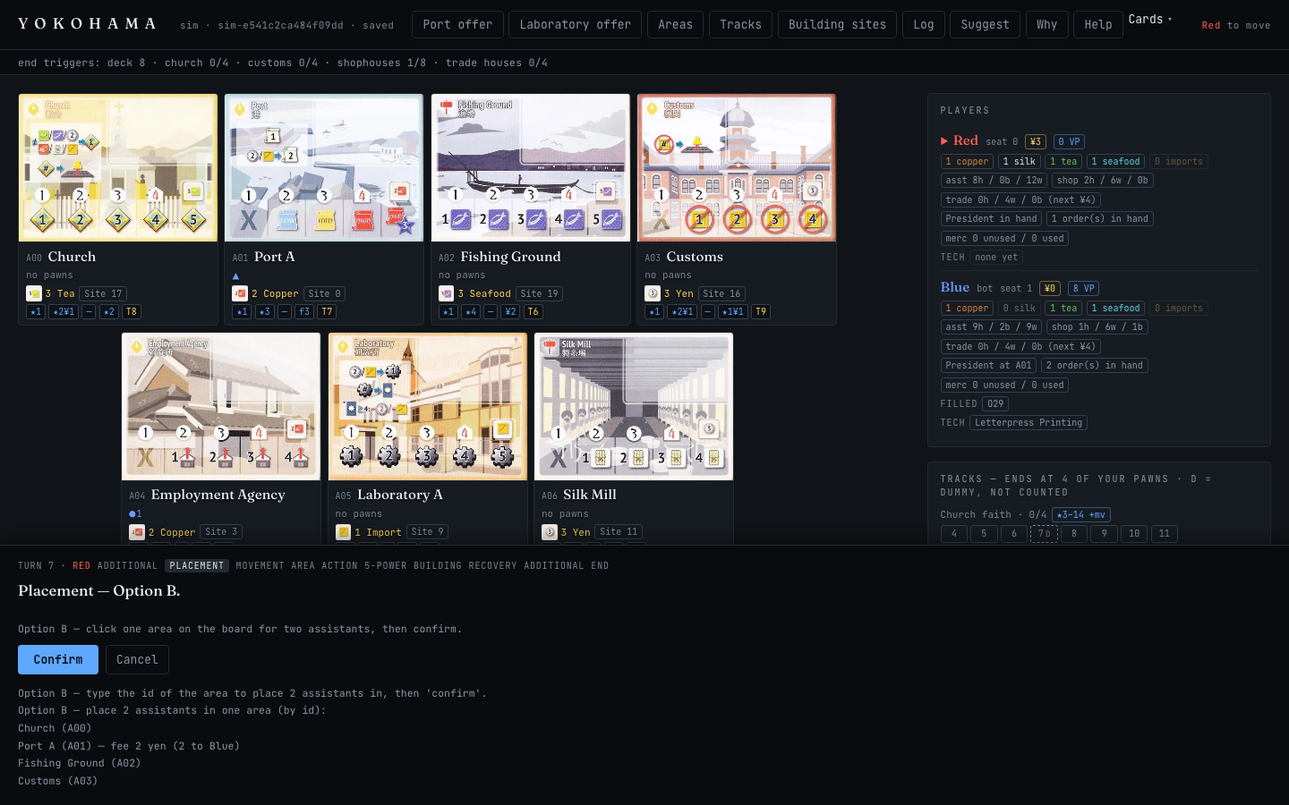
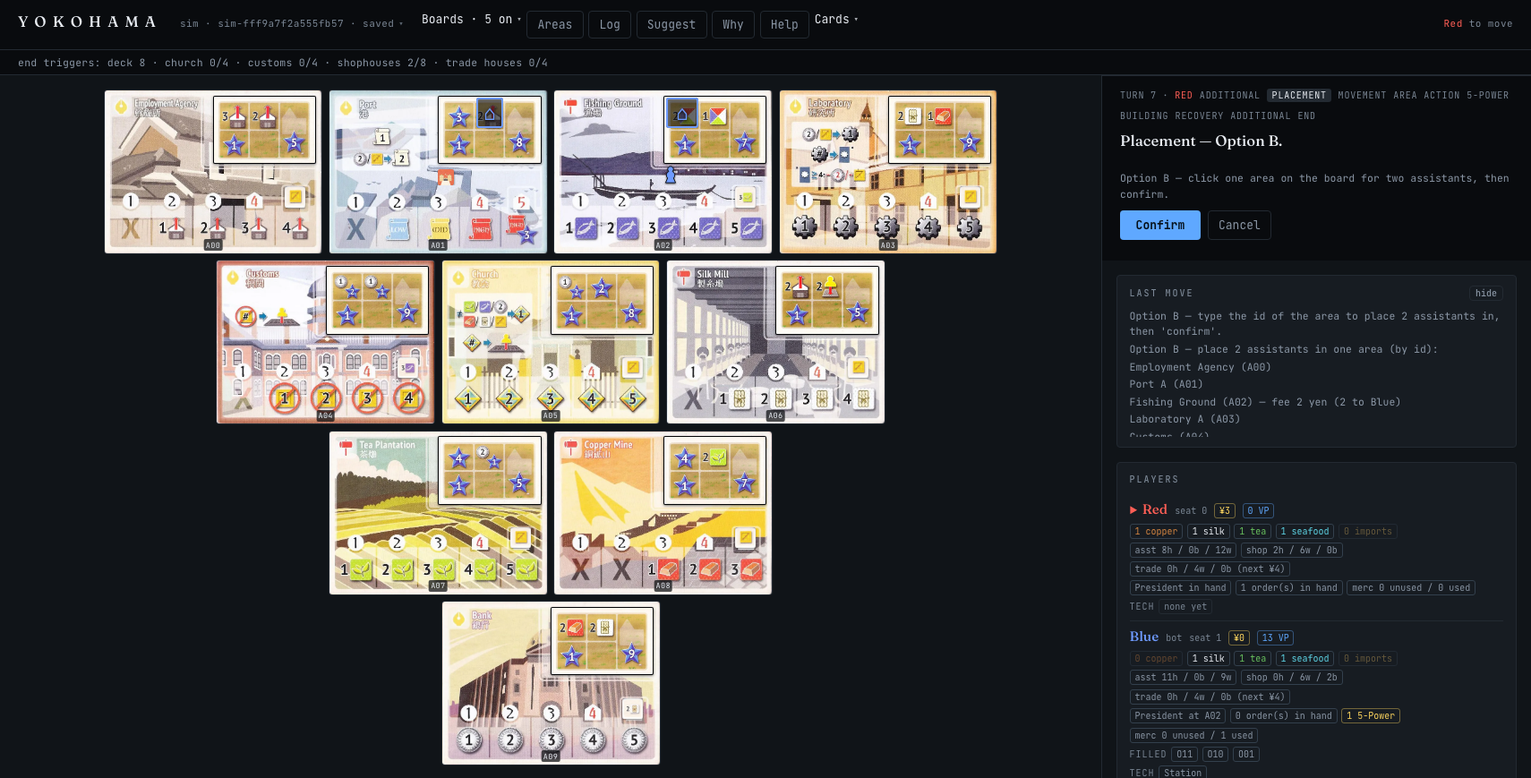
docs(web): W7/W8 — the help says table and side column, and its pictures show them
The in-app help still described M3.5's screen: a board on the left, a
dashboard rail on the right, an answer deck pinned along the bottom, and a
row of banner buttons opening the port, the laboratory, the tracks and the
building sites as read-only drawers. Every one of those became something
else in M5 (ruling R-T11c carried the last of it forward), so the panel a
new player opens to learn the screen was describing a screen that is not
there.

- `Help.tsx` — the three parts are now the TABLE (the fitted pyramid, each
  tile the printed art with its site card, its pieces and its 5-Power token,
  and under it whichever boards are switched on), the SIDE COLUMN, and the
  ANSWER BAR pinned at its top, with a sentence for the sub-1201 stack that
  ruling R8 left unchanged. "Looking things up" describes `Boards` as the ONE
  disclosure it is (ruling R-T14a) rather than five buttons. The replay
  section names the table and says which sections collapse while you are in
  the past — the port, the laboratory AND the building sites, which is
  `TableSections`' own `FETCHED` list, not the two the brief named.
- Ruling R-T14c, the corrections the brief did not ask for: the answer bar is
  called that in "Taking a turn" too; a tile no longer "is not pressable"
  (every tile takes focus for the popover, so the true claim is that none
  APPLIES a move); the `Cards` menu carries a fifth item; a panel is modal,
  so the game does not merely wait under it; and "Saving, and coming back"
[…]

diff --git a/web/src/Help.tsx b/web/src/Help.tsx
@@ -42,52 +42,64 @@ export function Help() {
 
       <h3>The three parts of the screen</h3>
       <p>
-        The <strong>board</strong> fills the left: one tile per area, laid out as the staggered
-        pyramid the real board makes, with each tile carrying its assistants, any president, and
-        the site or token sitting on it. The <strong>rail</strong> down the right is the
-        dashboard &mdash; every seat&rsquo;s goods, money and power, the Church and Customs
-        tracks, the achievements, and your own hand. The <strong>answer deck</strong> is pinned
-        along the bottom and never scrolls away: whatever the game is asking you is always there,
-        however far down the page you are.
+        The <strong>table</strong> fills the left: the area tiles laid out as the staggered
+        pyramid the real board makes, each one the printed tile with its building-site card on
+        it, its pieces standing on it, and the 5-Power token in its printed slot &mdash; and
+        under the pyramid, whichever boards you have switched on: the port and the laboratory,
+        six card slots to a board, the church and customs tracks, the goals in play, and the
+        building sites at full size. On a wide screen they sit side by side; on a laptop the
+        table scrolls. The <strong>side column</strong> on the right holds the{" "}
+        <strong>answer bar</strong> pinned at its top &mdash; whatever the game is asking you is
+        always there &mdash; then what the last move did, every seat&rsquo;s goods, money and
+        pieces, and your own hand. Hover or focus any tile to see it, and any site card on it, at
+        full size.
+      </p>
+      <p>
+        That is the wide screen. Narrow the window past about 1200px and the same three parts
+        stack instead, the table above the column, with the answer bar pinned along the bottom
+        edge rather than at the top of a column.
       </p>
       <Shot
         src="/help/screen.png"
-        alt="The whole client at two players: the staggered pyramid board on the left with its area tiles, the dashboard rail on the right showing both seats, and the pinned answer deck along the bottom carrying the current question."
-        caption="The board, the rail, and the answer deck pinned at the bottom."
+        alt="The client at two players on a 1710 by 869 screen: the staggered pyramid of ten area tiles filling the table on the left, each tile the printed area art with its building-site card upright on its top-right, its pieces on it and an id badge along its bottom edge; on the right the answer bar at the top of the side column, carrying the phase ladder, the seat to move and the numbered moves it is offering, and under it the last move and both seats&rsquo; goods, money and pieces."
+        caption="The first view at two players: the table on the left, the side column on the right, the answer bar pinned at its top. The pyramid is fitted to the table&rsquo;s height here, so the five switched-on boards sit under it and the table scrolls to them."
       />
 
       <h3>Taking a turn</h3>
       <p>
-        The deck lists the moves the engine says are legal, numbered. Press one. Some of them open
-        a further question rather than playing immediately &mdash; choosing where to place
-        assistants, which route to walk, how many to recover &mdash; and the deck becomes that
-        question until you confirm or cancel it. When a choice has exactly one answer the client
-        offers to apply it for you rather than making you find it.
+        The answer bar lists the moves the engine says are legal, numbered. Press one. Some of
+        them open a further question rather than playing immediately &mdash; choosing where to
+        place assistants, which route to walk, how many to recover &mdash; and the bar becomes
+        that question until you confirm or cancel it. When a choice has exactly one answer the
+        client offers to apply it for you rather than making you find it.
       </p>
       <p>
-        While a placement picker is open the <strong>board itself becomes the input</strong>: the
+        While a placement picker is open the <strong>table itself becomes the input</strong>: the
         tiles you can toggle are the ones drawn as buttons, and the running cost of what you have
-        selected is printed before you commit to it. At every other moment the board is a
-        picture and nothing on it is pressable.
+        selected is printed before you commit to it. At every other moment no tile applies a
+        move, and the pyramid is a picture you can read rather than press.
       </p>
       <Shot
         src="/help/placement.png"
-        alt="A placement picker open at Option B: the deck reads &ldquo;Option B &mdash; click one area on the board for two assistants, then confirm&rdquo;, with Confirm and Cancel buttons and the eligible areas listed beneath it &mdash; Port A among them priced &ldquo;fee 2 yen (2 to Blue)&rdquo; &mdash; while the matching tiles on the board are outlined as the ones that can be chosen."
-        caption="A placement picker. The board is the input surface, and every eligible area is priced before you commit to it."
+        alt="A placement picker open at Option B: the answer bar reads &ldquo;Placement &mdash; Option B&rdquo; over the line &ldquo;Option B &mdash; click one area on the board for two assistants, then confirm&rdquo;, with Confirm and Cancel under it; below that the last-move block lists the eligible areas by name and id, naming the fee beside any that would cost one; and on the table every tile that can be chosen is drawn as a button."
+        caption="A placement picker: the table is the input surface. Every eligible area is listed, with the fee named where there is one, and once you pick one the answer bar prices the selection too."
       />
 
       <h3>Looking things up</h3>
       <p>
-        The buttons along the top open read-only reference panels &mdash; the port offer and what
-        each zone costs, the laboratory offer with its surcharges, what every area pays at each
-        power level, the Church and Customs tracks space by space, and the building-site cards.
-        Behind <em>Card reference</em> are the four full indexes: all 36 orders, all 20
-        technologies, the achievements in play, and the 24 printed sites, each saying where every
-        copy currently is.
+        <em>Boards</em> along the top is one menu rather than a row of switches, and its summary
+        counts what is on. Open it and there is a switch for each board that can sit under the
+        pyramid: the port, the laboratory, the tracks, the goals, the building sites. What you
+        switch on stays on in this browser, and Escape closes the menu.
       </p>
       <p>
-        These never change anything. They read the game and close again, and you can open one
-        while a question is waiting for you.
+        The buttons beside it open read-only panels over the game &mdash; what every area pays at
+        each power level, the log, the bot&rsquo;s advice, and this page &mdash; and behind{" "}
+        <em>Cards</em> are the four full indexes: all 36 orders, all 20 technologies, the
+        achievements in play, and the 24 printed sites, each saying where every copy currently
+        is, together with the final score once there is one. A panel reads the game and closes
+        again; the game waits underneath it, and nothing outside the panel answers until you
+        close it.
       </p>
 
       <h3>Asking the bot</h3>
@@ -105,7 +117,7 @@ export function Help() {
       </p>
       <Shot
         src="/help/explain.png"
-        alt="The suggest panel: the recommended move, the continuation it searched, and a term-by-term chart with bars either side of a centre zero line, each row labelled and the totals footing."
+        alt="The Suggest panel open as a drawer over the table: the move it would play under the heading &ldquo;It would play&rdquo;, then a term-by-term chart with a bar either side of a centre zero line for every feature carrying a nonzero product, each row naming its feature, its arithmetic and its product, and a total under them that foots. A button offers the remaining features that contribute nothing, and the heading for the line it searched sits below."
         caption="Suggest: the move, the line, and the arithmetic — helping to the right of the zero line, hurting to the left."
       />
 
@@ -113,9 +125,12 @@ export function Help() {
       <p>
         Open <strong>Log</strong> and you get the whole move trail, each line worded as it read
         when it applied &mdash; and a track above it that walks the game. Drag it, step with the
-        arrows, or press any line to jump to the position that move was decided in. The board
-        behind the panel redraws at that point, full size, outlined to show you are looking at
-        the past.
+        arrows, or press any line to jump to the position that move was decided in. The table
+        beside the panel redraws at that point, full size, outlined to show you are looking at
+        the past. The port, the laboratory and the building sites on it say they are hidden while
+        you are in the past: the position you scrub to has no offer the server can show, so the
+        table does not pretend. The tracks and the goals keep drawing, from that same past
+        position.
       </p>
       <p>
         The track has one more stop than there are moves, because the last stop is{" "}
@@ -125,15 +140,18 @@ export function Help() {
       </p>
       <Shot
         src="/help/replay.png"
-        alt="The log panel open as a drawer on the right with the replay track above the move list, and the full-size board beside it redrawn at an earlier position with a green outline."
-        caption="The replay track lives in the log panel; the board redraws beside it at full size."
+        alt="The Log panel open as a drawer on the right: the replay track across its top with step arrows, a readout of which stop it is at and a &ldquo;Back to live&rdquo; button, the numbered move list under it with the current stop highlighted, and the table beside it redrawn at that earlier position inside a green outline."
+        caption="The replay track lives in the Log panel; the table redraws beside it at full size, outlined to say you are in the past."
       />
 
       <h3>Saving, and coming back</h3>
       <p>
         Every move you make is written to the server as it is applied &mdash; there is no save
         button and nothing to remember. Leave and come back and the game is in the list on the
-        start screen, where it resumes exactly where you left it.
+        start screen, where it resumes exactly where you left it. You do not have to leave to
+        find it: the banner&rsquo;s leftmost control names the game you are in, and opening it
+        lists your other saved games to switch to, with a way back to the start screen for a new
+        one.
       </p>
 
       <h3>If something looks wrong</h3>

diff --git a/web/e2e/shots.spec.ts b/web/e2e/shots.spec.ts
@@ -18,11 +18,18 @@
 // with an error. (It was written that way here first, which is the one place a
 // reader would copy it from.)
 //
-// **Then LOOK at the pictures.** The card-art suite already learned this the
-// expensive way: its tests prove the join is TOTAL, not TRUE, and two real
-// errors survived a complete-and-green mapping because nobody opened the
-// images. A regenerated screenshot that nobody views is the same mistake with a
-// bigger surface — these are what a reader is told the product looks like.
+// **Then LOOK at the pictures, and re-read what is written beside them.** The
+// card-art suite already learned the first half the expensive way: its tests
+// prove the join is TOTAL, not TRUE, and two real errors survived a
+// complete-and-green mapping because nobody opened the images. A regenerated
+// screenshot that nobody views is the same mistake with a bigger surface —
+// these are what a reader is told the product looks like. The second half is
+// this file's own: the server draws the seed, so every run photographs a
+// DIFFERENT game, and each shot carries an `alt` and a `caption` in
+// `web/src/Help.tsx` (two of them also in `README.md`) that claim what is in
+// frame. Those were written against a picture and stayed behind when the
+// picture moved on. Regenerating without re-reading them ships a description of
+// a screenshot that no longer exists.
 //
 // The few assertions below are there so a BLANK or half-drawn frame cannot be
 // written to disk and shipped as documentation; they check that the thing being
@@ -36,6 +43,17 @@ test.skip(!haveBrowser, "no Chromium — YOKOHAMA_WEB_E2E_OPTIONAL=1; this run t
 
 const SHOTS = "public/help";
 
+/** The owner's screen, and the shape every picture in the help is taken at.
+ *
+ *  Not a round number on purpose: 1710x869 is the viewport the M5 table was
+ *  designed and gated against (`e2e/gates.spec.ts` shoots the same cell), and a
+ *  help panel photographed at a width nobody uses documents a layout nobody
+ *  sees. `deviceScaleFactor` is deliberately left at 1 here where the gates
+ *  spec sets 2: these four files ship in `dist/` and in `README.md`, so their
+ *  bytes are a cost the repository pays forever, and the gates are the place
+ *  that pays for pixel density. */
+const VIEWPORT = { width: 1710, height: 869 };
+
 /** Play real moves so the shots show a game in progress rather than a setup. */
 async function playAFew(page: Page, moves: number, seed: number) {
   const pick = rng(seed);
@@ -46,18 +64,103 @@ async function playAFew(page: Page, moves: number, seed: number) {
   }
 }
 
+const raf = (page: Page) =>
+  page.evaluate(() => new Promise((resolve) => requestAnimationFrame(() => resolve(null))));
+
+/** Point the camera at the top: the WINDOW and the table's own scroller.
+ *
+ *  **Above 1201px the page does not scroll and `.table` does** (`styles.css`:
+ *  `.app` is `height: 100vh` and the table is its own `overflow: auto` size
+ *  container), so `window.scrollTo(0, 0)` — which is all this file used to do —
+ *  resets a scroller that was never moved and leaves the table wherever the
+ *  last click dragged it into view. Both are reset here, because below 1201px
+ *  the page is the scroller and above it the table is.
+ *
+ *  **Throws rather than returning on a missing element**, the shape
+ *  `gates.spec.ts` gives its own `scrollTable`: returning silently is the very
+ *  failure the helper exists to prevent, since a rename would then produce a
+ *  shot at whatever offset the last click left behind, under a green run. That
+ *  helper's other anchors are not copied — every picture here is taken at the
+ *  top, and an unused arm is an arm nothing checks. Copied rather than imported,
+ *  because importing a `.spec.ts` would register that file's tests into this
+ *  run. */
+async function scrollToTop(page: Page): Promise<void> {
+  const missing = await page.evaluate(() => {
+    window.scrollTo(0, 0);
+    const table = document.querySelector(".table") as HTMLElement | null;
+    if (!table) return ".table";
+    table.scrollTop = 0;
+    return null;
+  });
+  if (missing) throw new Error(`scrollToTop: ${missing} is not on the page`);
+  await raf(page);
+}
+
+/** The pointer off the board, and the hover popover with it.
+ *
+ *  `act()` ends on a click, so the pointer is left resting wherever the last
+ *  one landed and `TilePopover` opens under it — the V2 gate photographed a
+ *  popover sitting over the middle of the table before it learned this. A
+ *  tooltip in a help screenshot is a picture of a feature the caption is not
+ *  about. Asserted gone rather than assumed. */
+async function park(page: Page): Promise<void> {
+  await page.mouse.move(2, 2);
+  await expect(page.getByRole("tooltip")).toHaveCount(0);
+}
+
+/** Switch a board on or off through the banner's `Boards` menu.
+ *
+ *  Scoped to the menu: "Goals" is also a card-index button in the `Cards`
+ *  disclosure two elements along, so an unscoped role lookup is one label away
+ *  from being ambiguous. Escape is `App.tsx`'s own handler and not the
+ *  browser's — a `<details>` ignores the key natively — so the close is a claim
+ *  worth checking, and a menu left open sits over the table in the shot. */
+async function toggleBoards(page: Page, ...names: string[]): Promise<void> {
+  const boards = page.locator(".boards-menu");
+  await page.locator(".boards-menu > summary").click();
+  for (const name of names) await boards.getByRole("button", { name }).click();
+  await page.keyboard.press("Escape");
+  await expect(page.locator(".boards-menu[open]")).toHaveCount(0);
+}
+
 test("the whole screen, and a placement picker", async ({ page }) => {
-  await page.setViewportSize({ width: 1440, height: 900 });
+  await page.setViewportSize(VIEWPORT);
   await startGame(page, { players: 2 });
+
+  // **The reading that stops the picker check below from being vacuous.**
+  //
+  // `placement.png` is selected by "some tile is a `<button>`", and that is
+  // only a picker detector for as long as tiles are NOT buttons the rest of the
+  // time. `Board.tsx` renders a tile as a `<div tabIndex={0}>` unless `App`
+  // hands it an `onTileClick`, which it does only at `place_a`/`place_b` — so
+  // the property holds at HEAD, and it is a property of two files that a third
+  // task could quietly change (the popover, for one, opens on focus from the
+  // inert `<div>`). Read here, before a move is played, where the phase machine
+  // cannot be at a Placement prompt: if this ever reads non-zero the detector
+  // has stopped discriminating and the run fails instead of photographing an
+  // arbitrary frame under the placement caption.
+  expect(
+    await page.locator("button.tile").count(),
+    "a tile is a button outside a placement picker, so the picker check below detects nothing",
+  ).toBe(0);
+
   await playAFew(page, 9, 0x53_48_4f_54); // "SHOT"
 
-  // **Scroll to the top before shooting.** The page is taller than the
-  // viewport and `act()` leaves it wherever the last click was, so the first
-  // draft photographed a mid-page scroll with the banner off-frame — while the
-  // help text beside it talks about "the buttons along the top". The deck is
-  // pinned, so the top of the page still shows all three regions the caption
-  // names.
-  await page.evaluate(() => window.scrollTo(0, 0));
+  // Building sites on, so the table has all five boards under the pyramid and
+  // the summary reads its own count back — the picture and the help's sentence
+  // about the Boards menu are then about the same screen.
+  await toggleBoards(page, "Building sites");
+  await expect(page.locator(".boards-menu > summary")).toHaveText("Boards · 5 on");
+
+  // **The FIRST VIEW: the table at its own scrollTop 0** (ruling R-T14b). Above
+  // 1201px the page does not scroll and the table does, and `act()` leaves the
+  // table wherever the last click scrolled it into view — the 1440-era comment
+  // here reset only the window, which above this breakpoint is a scroller that
+  // never moved. What is in frame is therefore what a player gets on load, and
+  // the caption says that rather than naming a strip the fit rule has pushed
+  // below the fold.
+  await scrollToTop(page);
+  await park(page);
   // Anti-vacuity: a screenshot of an empty board would still be a valid PNG.
   await expect(page.locator(".board .tile").first()).toBeVisible();
   await expect(page.locator(".deck")).toBeVisible();
@@ -79,13 +182,21 @@ test("the whole screen, and a placement picker", async ({ page }) => {
     if ((await act(page, screen, pick)) === null) break;
   }
   expect(found, "never reached a placement picker, so placement.png would be a lie").toBe(true);
-  await page.evaluate(() => window.scrollTo(0, 0));
+  await scrollToTop(page);
+  await park(page);
   await expect(page.locator("button.tile").first()).toBeVisible();
+  // The deck's own words for the picker, so the shot cannot be of a board that
+  // merely has buttons on it: Option A and Option B are the only two prompts
+  // that put the question on the table, and one of them is on screen. Scoped to
+  // `.deck` and not to `.decision`, which the client renders three times — the
+  // warnings block is `.decision` too, and it is the FIRST one.
+  await expect(page.locator(".deck")).toContainText(/Option [AB] —/);
+  await expect(page.getByRole("button", { name: "Confirm" })).toBeVisible();
   await page.screenshot({ path: `${SHOTS}/placement.png` });
 });
 
 test("the explanation, and the replay track", async ({ page }) => {
-  await page.setViewportSize({ width: 1440, height: 900 });
+  await page.setViewportSize(VIEWPORT);
   await startGame(page, { players: 2 });
   await playAFew(page, 14, 0x4558_504c); // "EXPL"
 
@@ -100,9 +211,13 @@ test("the explanation, and the replay track", async ({ page }) => {
   await expect(track).toBeVisible();
   await track.focus();
   for (let i = 0; i < 6; i++) await page.keyboard.press("ArrowLeft");
-  // The whole point of the shot is the board redrawn at an earlier position
-  // BESIDE the drawer, so both have to be on screen before it is taken.
+  // The whole point of the shot is the TABLE redrawn at an earlier position
+  // beside the drawer, so both have to be on screen before it is taken.
   await expect(page.locator(".table.replaying")).toBeVisible();
   await expect(page.locator(".surface[open]")).toBeVisible();
+  // The table is its own scroller above 1201px and the walk has been clicking
+  // in it; without this the outlined pyramid is photographed mid-scroll.
+  await scrollToTop(page);
+  await park(page);
   await page.screenshot({ path: `${SHOTS}/replay.png` });
 });

diff --git a/README.md b/README.md
@@ -203,26 +203,34 @@ served over HTTP and drawn in a browser instead of a terminal. It is a *second f
 engine*, never a second engine: the server routes, scopes and serializes and computes nothing
 about the game, so the terminal and the browser cannot disagree about a rule.
 
-![The browser client at two players: the nav bar of reference panels along the top, the
-end-trigger strip beneath it, the staggered pyramid board with its card art filling the left, the
-dashboard rail on the right showing both seats' goods, money, power and tracks, and the pinned
-answer deck along the bottom offering the three numbered Placement
+![The browser client at two players: the banner with the Boards menu and the reference buttons
+along the top, the end-trigger strip beneath it, and the table filling the left with the ten area
+tiles laid out as the staggered pyramid — each one the printed area art carrying its
+building-site card, its pieces and its id badge — beside the side column on the right, whose
+answer bar is pinned at its top offering the three numbered Placement
 options](web/public/help/screen.png)
 
-The board is on the left, the dashboard rail on the right, and the answer deck is **pinned along
-the bottom** — whatever the game is asking is always on screen, however far down the page you
-are. While a placement picker is open the board itself becomes the input surface, and the fee
-your current selection would cost is printed before you commit to it.
+The left is a **table**: the pyramid of area tiles, each one the printed tile with its
+building-site card on it and its pieces standing on it, and under the pyramid whichever boards
+you have switched on from the banner's `Boards` menu — the port, the laboratory, the church and
+customs tracks, the goals, the building sites. The right is a **side column** with the **answer
+bar pinned at its top**, so whatever the game is asking is always on screen; under it sit the
+last move, every seat's dashboard and your hand. While a placement picker is open the table
+itself becomes the input surface, and the fee your current selection would cost is printed
+before you commit to it. Below 1201px the same parts stack, with the answer bar pinned along the
+bottom edge instead.
 
 **The replay track (M4).** Open the log and the whole move trail is there, each line worded as it
 read when it applied — with a track above it that walks the game. Drag it, step with the arrows,
-or press any line to jump to the position that move was decided in. The board redraws beside the
+or press any line to jump to the position that move was decided in. The table redraws beside the
 drawer at full size, and nothing on it is pressable, because a past position is not answerable.
+The port and laboratory offers and the building sites collapse to a line saying they are hidden
+while you are in the past; the tracks and the goals keep drawing, from that same past position.
 
 ![The log panel open as a right-hand drawer: the replay track across the top with step arrows, a
 position readout and a "Back to live" button, the numbered move list below it with the current
-stop highlighted, and the full-size board redrawn beside the drawer at that earlier
-position](web/public/help/replay.png)
+stop highlighted, and the table redrawn beside the drawer at that earlier position inside a green
+outline](web/public/help/replay.png)
 
 The track has one more stop than there are moves, because the last stop is *now* — a real
 position with no move to name. It is a projection over the record the server already holds:

diff --git a/ASSETS.md b/ASSETS.md
@@ -16,7 +16,7 @@ in this file.
 | `tts-assets/` | Source sprite sheets and scans — card fronts and backs, area-board tiles, tokens, the rulebook PDF | 118 tracked files, ~60 MB (84 `.jpg`, 28 `.png`, 2 `.pdf`, plus an extraction summary, a mapping JSON and one extraction script) | Extracted 2025-12-07 from the Tabletop Simulator community mod for Yokohama (Steam Workshop id 1840951801); see `tts-assets/EXTRACTION_SUMMARY.md` |
 | `crates/yokohama-web/assets/art/` | Derived crops of the above, cut into per-item images (`orders/`, `techs/`, `sites/`, `areas/`, `tokens/`, `achievements/`, `five-power/`, `mercenaries/`, `backs/`) plus `manifest.json` | 132 tracked files, ~7.7 MB (131 `.webp` + the manifest) | Added 2026-08-31; produced from `tts-assets/` by this repository's own tooling. Being derived does not launder the underlying copyright — these are excluded on exactly the same footing as their source |
 | `analysis-1/00-yokohama-rulebook.pdf` | The published English rulebook, complete | 1 file, ~6.5 MiB | Publisher's rulebook, used as the rules source of record for the engine |
-| `web/public/help/` | Screenshots of the running browser client, used by its in-app Help panel and by `README.md` | 4 `.png`, ~2 MB | Added 2026-09-01; generated from the real application by `web/e2e/shots.spec.ts`. **The layout, typography and every word in them are this repository's own work — the card and tile images inside them are not**, being the `crates/yokohama-web/assets/art/` crops as the browser draws them. A photograph of excluded material is excluded material, so these sit here on the same footing rather than on the code's |
+| `web/public/help/` | Screenshots of the running browser client, used by its in-app Help panel and by `README.md` | 4 `.png`, ~3.4 MiB (1710×869 each, the owner's viewport) | Added 2026-09-01, regenerated 2026-09-02 at the M5 table; generated from the real application by `web/e2e/shots.spec.ts`. **The layout, typography and every word in them are this repository's own work — the card and tile images inside them are not**, being the `crates/yokohama-web/assets/art/` crops as the browser draws them. A photograph of excluded material is excluded material, so these sit here on the same footing rather than on the code's |
 
 The extraction script (`tts-assets/parse_tts_mod.py`) and the manifest
 (`crates/yokohama-web/assets/art/manifest.json`) are this repository's own
